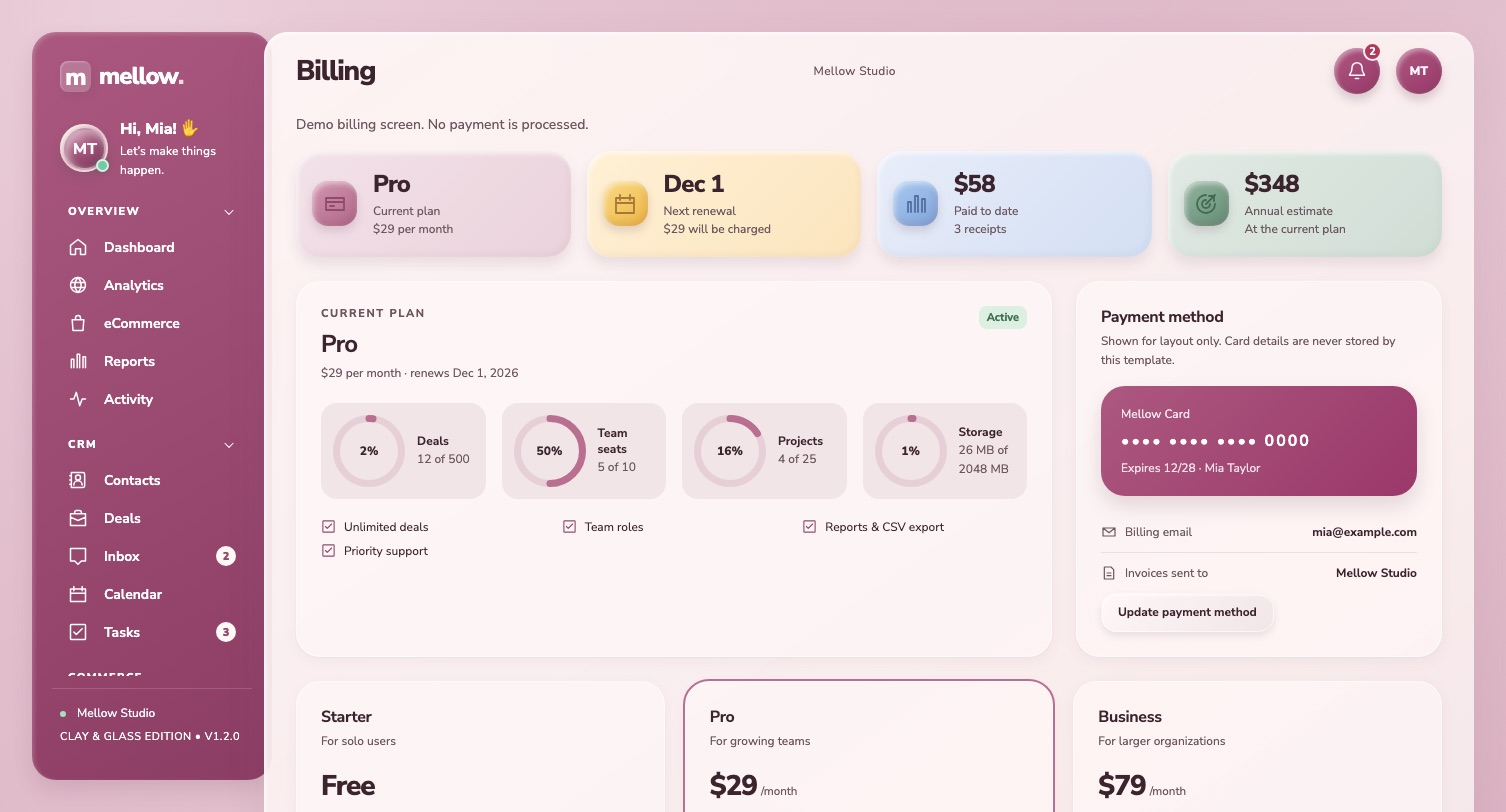
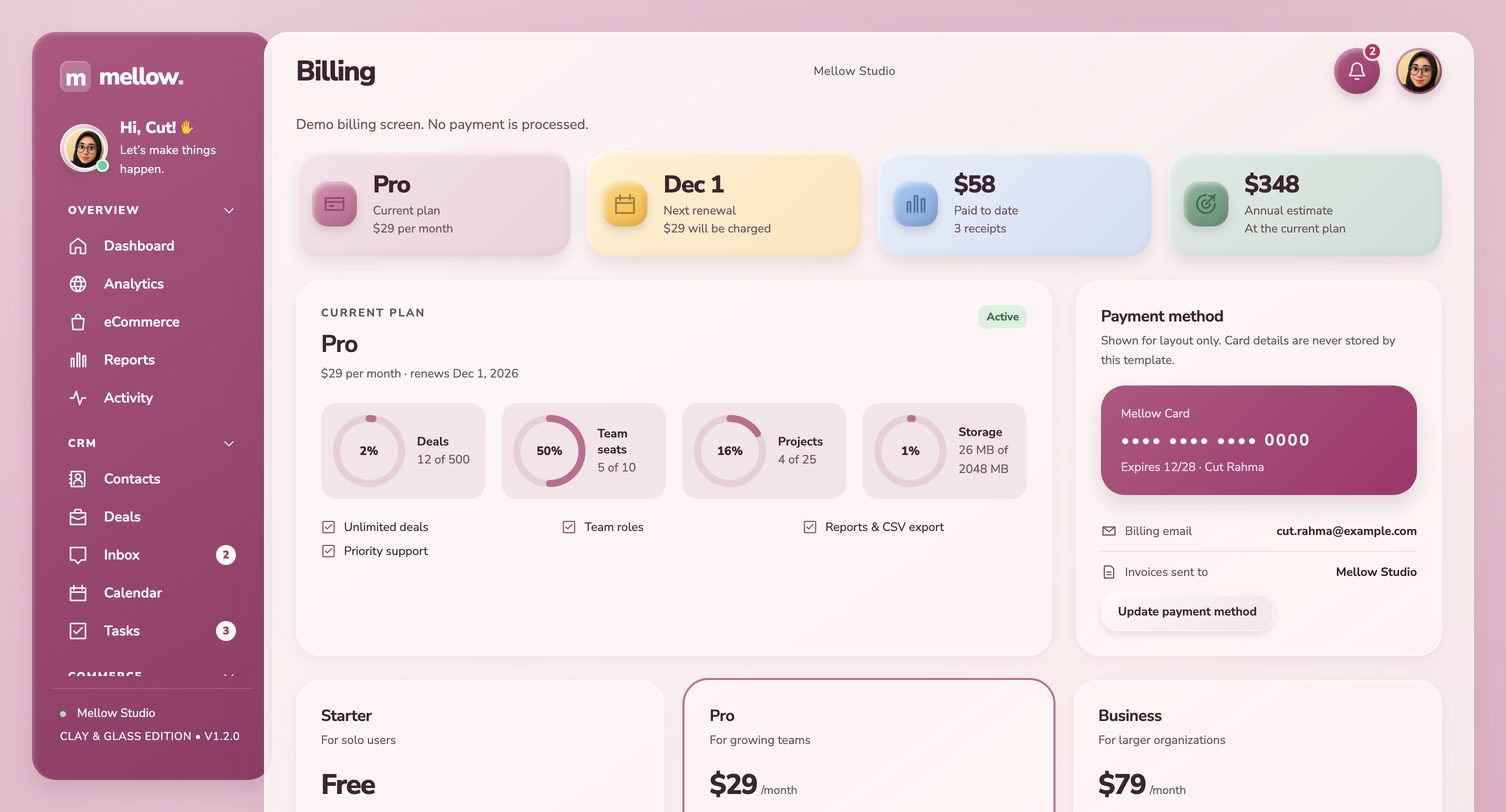
Perbarui screenshot README dengan profil Cut Rahma
- Lima screenshot galeri diambil ulang (Chrome headless, 1506 x 812,
  skala 2x, animasi dimatikan): sidebar, topbar, kartu Billing, dan
  kartu deal kini menampilkan Cut Rahma, fotonya, dan inisial CR. Kolom
  email di Sign in berisi cut.rahma@example.com.
- Screenshot baru docs/screenshots/dashboard.jpg (Dashboard, tema
  terang, aksen violet) ditambahkan di bagian gambar pertama README,
  di atas papan Deals.
- Ukuran di README diperbarui: standalone +-747 KB dan bundle
  JavaScript +-183 KB gzip, kini termasuk foto profil.

diff --git a/README.md b/README.md
@@ -4,6 +4,8 @@
 
 React 19 · 37 layar siap pakai · Tanpa CDN atau internet · Lisensi MIT · [Versi 1.2.0](CHANGELOG.md)
 
+![Mellow Admin: Dashboard dengan kartu statistik, grafik pendapatan, dan sales funnel](docs/screenshots/dashboard.jpg)
+
 ![Mellow Admin: papan kanban Sales pipeline](docs/screenshots/deals-pipeline.jpg)
 
 Mellow Admin adalah template frontend untuk aplikasi CRM, back-office, dan SaaS. Kebanyakan template admin terlihat kaku dan seragam. Mellow memakai kartu bervolume ala tanah liat (*clay*), sentuhan kaca buram (*glass*) pada dialog dan layar masuk, dan palet pastel, sehingga dashboard terasa hangat tanpa mengorbankan kepadatan informasi.
@@ -16,8 +18,8 @@ Cukup ekstrak lalu buka `index.html`. Tidak perlu `npm install`, server, atau ko
 
 - **Tampil beda sejak layar pertama.** Bayangan neumorphic, sentuhan kaca, animasi masuk yang membal lembut, dan 4 palet aksen lengkap memberi identitas visual yang jarang ada di template admin.
 - **Langsung jalan, bahkan offline.** React, CSS, ikon, dan font Nunito Sans sudah dibundel lokal. Tanpa CDN, font eksternal, atau panggilan API.
-- **Ada versi satu file.** `Mellow-Admin-Standalone.html` (±730 KB) memuat seluruh aplikasi dalam satu berkas HTML. Praktis untuk demo ke klien atau lampiran presentasi.
-- **Ringan.** Bundle JavaScript, termasuk React dan enam foto kontak, ±175 KB setelah gzip. CSS ±58 KB gzip, sudah termasuk font yang tertanam.
+- **Ada versi satu file.** `Mellow-Admin-Standalone.html` (±747 KB) memuat seluruh aplikasi dalam satu berkas HTML. Praktis untuk demo ke klien atau lampiran presentasi.
+- **Ringan.** Bundle JavaScript, termasuk React, enam foto kontak, dan foto profil, ±183 KB setelah gzip. CSS ±58 KB gzip, sudah termasuk font yang tertanam.
 - **Kode yang mudah dibaca.** Hanya enam berkas sumber, React murni tanpa router, state library, atau framework CSS. Satu orang bisa memahami seluruh alurnya dalam satu sore.
 - **Siap disambungkan ke backend.** Semua perubahan data lewat beberapa fungsi pusat, jadi mengganti `localStorage` dengan API Laravel, Node, atau backend lain cukup di satu tempat.
 
